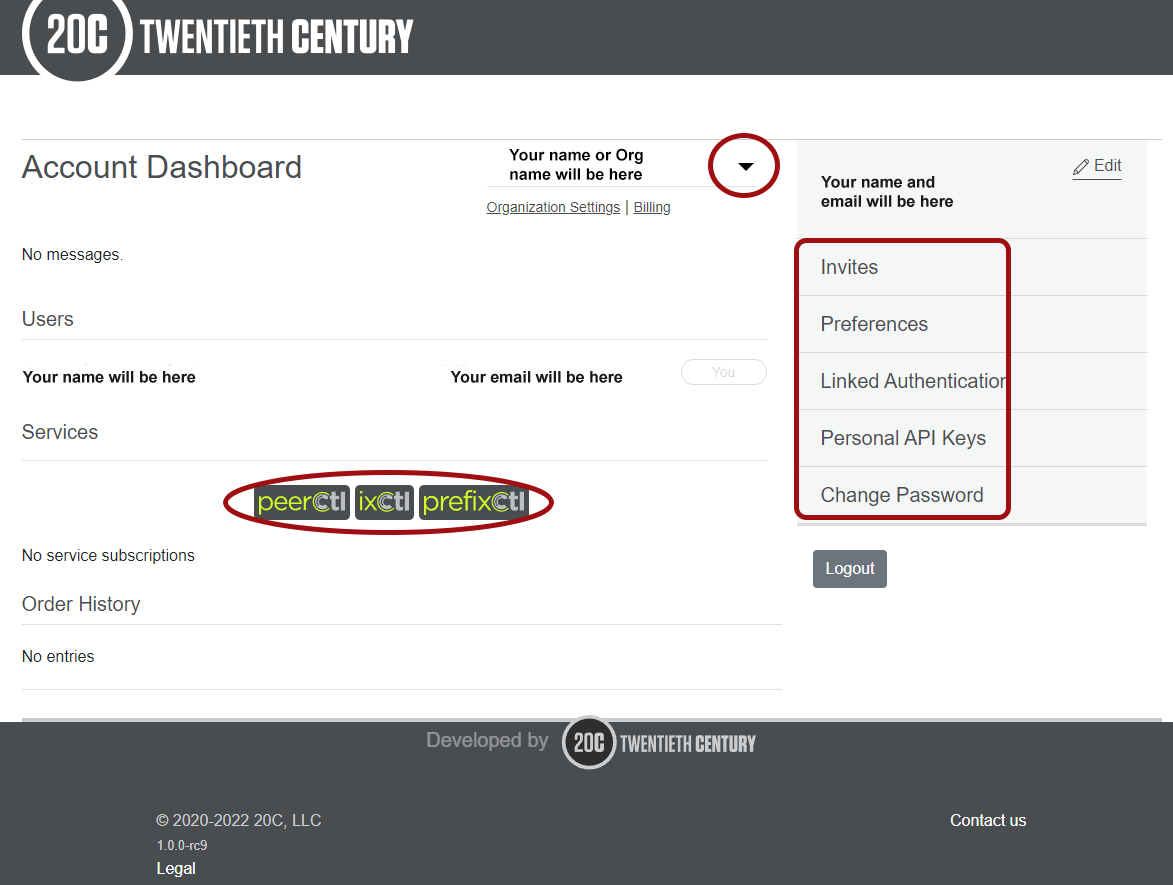
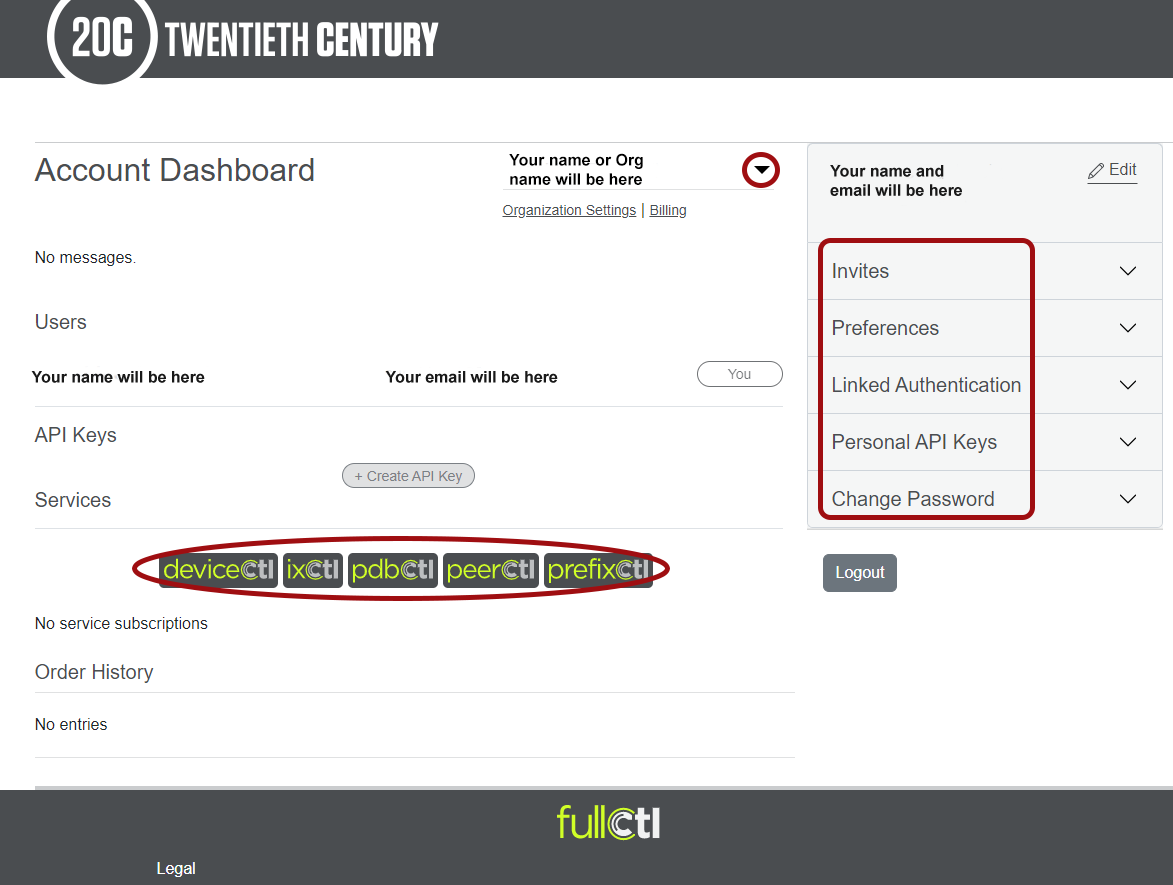
Add docs for DeviceCtl, IXCtl (#23)
* add DeviceCtl docs

* add ixctl docs

* change wording

* documentation updates

* pipenv lock

* replace strong with **

diff --git a/docs/Definitions.md b/docs/Definitions.md
@@ -1,12 +1,12 @@
 # FullCtl Definitions
-<strong>Organization</strong> – A group of Users. The Organization Administrator can set unique permissions for each User. Each Organization has its own services from FullCtl. Billing is tied to an Organization and is based on the services signed up for.
+**Organization** – A group of Users. The Organization Administrator can set unique permissions for each User. Each Organization has its own services from FullCtl. Billing is tied to an Organization and is based on the services signed up for.
 
-<strong>Organization Administrator</strong> - Person who created the Organization on the FullCtl site. The Organization Administrator invites new Users and grants User permissions.
+**Organization Administrator** - Person who created the Organization on the FullCtl site. The Organization Administrator invites new Users and grants User permissions.
 
-<strong>Primary Organization</strong> - The Organization set as default on a User account.
+**Primary Organization** - The Organization set as default on a User account.
 
-<strong>Permissions</strong> – The Read/Write allowances given to a User by an Organization Administrator. All data is tied to an Organization and Users in an Organization can access the data based on the permissions they are given.
+**Permissions** – The Read/Write allowances given to a User by an Organization Administrator. All data is tied to an Organization and Users in an Organization can access the data based on the permissions they are given.
 
-<strong>Services</strong> – Products offered through FullCtl such as PeerCtl, IXCtl, PrefixCtl.
+**Services** – Products offered through FullCtl such as PeerCtl, IXCtl, PrefixCtl.
 
-<strong>User</strong> – An individual with a login. A User may be part of more than one Organization. A User can set their own preferences, username and password. Some Users have Administrator privileges and can add other Users and set permissions. A User can create their own Organization and sign up for services.
+**User** – An individual with a login. A User may be part of more than one Organization. A User can set their own preferences, username and password. Some Users have Administrator privileges and can add other Users and set permissions. A User can create their own Organization and sign up for services.

diff --git a/docs/aaaCtl/LogIn.md b/docs/aaaCtl/LogIn.md
@@ -1,10 +1,12 @@
 # Log In and Update Settings
-1. Go to: account.20c.com.
-2. Enter your username and password and click Login.
+Go to: [account.20c.com](https://account.20c.com).</br>
+Enter username and password and click Login.</br>
    ![](img/login-images/userpass.png)
-3. Once you have logged in you will have access to your Account Dashboard. From the Dashboard, you can use the menu on the right to edit your account information, change preferences, access authentication and API key information and change your password.
-You can access the different 20C products in the Services section.
-You can switch between accounts using the drop-down arrow next to your name.
+Once logged in, there is access to the Account Dashboard. From the Dashboard, use the menu on the right to edit account information, change preferences, access authentication and personal API key information, and change password. The services section provides access to the different 20C products. Use the drop-down arrow next to your name to switch between accounts.
    ![](img/login-images/login2.png)
-4. When you are invited to join an Organization, you will receive an email with a link to accept the invitation. Pending invitations also appear in the right-side menu.
+Organizational API keys can be added to an account. Click on the Create API Key button.
+   ![](img/login-images/orgapikey.png)
+Enter the Name and Email address and click Create.
+   ![](img/login-images/createapikeypopup.png)
+When invited to join an Organization, users receive an email with a link to accept the invitation. Pending invitations also appear in the right-side menu.
    ![](img/login-images/accept.png)

diff --git a/docs/PeerCtl/Request-Peering.md b/docs/PeerCtl/Request-Peering.md
@@ -23,7 +23,7 @@ For each step of the Request Peering process, an email is sent to the network of
    ![](img/defaultemail.png)
 
 
-<strong>Custom Email Templates</strong>
+**Custom Email Templates**
 
 To create custom emails, close the Request Peering pop-up box and click on the Templates tab at the top of the window.
    ![](img/templates.png)
@@ -52,14 +52,26 @@ Example: https://github.com/fullctl/peerctl/blob/prep-release/src/django_peerctl
 
 `mutual_locations` - list of mutually shared exchanges
 
-	`exchange.name` - name of the internet exchange
+    `exchange.name` - name of the internet exchange
+
+Note: List of jinja variables:
+
+- `sessions` list of session objects available on `Session Configured` and `Session Live` emails
+
+    - `session.peer_ip4` peer ipv4 address for the session
+    - `session.peer_ip6` peer ipv6 address for the session
+    - `ip4`: ipv4 address for the session
+    - `ip6`: ipv6 address for the session
+    - `prefix_length4`: max prefixes ipv4
+    - `prefix_length6`: max prefixes ipv6
+
    ![](img/customemail.png)
 
 The newly added Template will appear in the Templates list. It can be edited or deleted from here.
    ![](img/emailtemplist.png)
 
 
-<strong>Peering Process</strong>
+**Peering Process**
 
 Step 1: Request
 

diff --git a/docs/prefixctl/PrefixCtl-Definitions.md b/docs/prefixctl/PrefixCtl-Definitions.md
@@ -1,9 +1,9 @@
 # PrefixCtl Definitions
 
-<strong>IRR Integration</strong> - Internet Routing Registry. When automatic IRR import is enabled the prefixes in this prefix set are managed automatically.
+**IRR Integration** - Internet Routing Registry. When automatic IRR import is enabled the prefixes in this prefix set are managed automatically.
 
-<strong>Prefix</strong> - An aggregation of IP addresses.
+**Prefix** - An aggregation of IP addresses.
 
-<strong>Prefix Set</strong> - A group of unique Prefixes.
+**Prefix Set** - A group of unique Prefixes.
 
-<strong>Reputation Monitor</strong> - Person who will receive a notification status check email daily. Assigning a Reputation Monitor ensures daily reports are received.
+**Reputation Monitor** - Person who will receive a notification status check email daily. Assigning a Reputation Monitor ensures daily reports are received.

diff --git a/docs/DeviceCtl/Definitions.md b/docs/DeviceCtl/Definitions.md
@@ -1,0 +1,10 @@
+# Definitions
+
+**Device** - A single entity composed of physical ports, such as a switch or switch stack, which can be polled in aggregate via a single interface.
+
+**Logical Port** - A grouping of ports which is used as a single connection, for instance a LAG or 802.1ad port group.
+
+**Physical Port** - A physical network connection point on a device.
+
+**Virtual Port** - A subdivision of a Physical or Logical port, such a VLAN. Port that a peering session is built on.
+

diff --git a/docs/DeviceCtl/Add-Facility.md b/docs/DeviceCtl/Add-Facility.md
@@ -1,0 +1,9 @@
+# Add Facility
+
+Click on the Facilities tab at the top of the screen. 
+   ![](img/add-facility/facility.png)
+If the facility is in PeeringDB, enter the facility name into the box to find the facility in PeeringDB. Click Continue next to the facility of choice.
+   ![](img/add-facility/enterfacility.png)
+Review the information that appears. Click PeeringDB is source of truth. Click Save.
+   ![](img/add-facility/savefacility.png)
+

diff --git a/docs/PeerCtl/Settings.md b/docs/PeerCtl/Settings.md
@@ -1,7 +1,7 @@
 # Settings
 
 Choose the Exchange/Port to be used from the drop down box on the left side of the window. The data displayed is populated from PeeringDB.
-<strong>Note: It is important to keep your PeeringDB account up-to-date to produce the most accurate data on PeerCtl.</strong>
+**Note: It is important to keep your PeeringDB account up-to-date to produce the most accurate data on PeerCtl.**
     ![](img/exchangeport.png)
 
 

diff --git a/docs/DeviceCtl/Add-Device.md b/docs/DeviceCtl/Add-Device.md
@@ -1,0 +1,9 @@
+# Add Device
+
+From the Overview tab in DeviceCtl, choose the facility to work with from the drop down menu.
+   ![](img/add-device/choosefacility.png)
+Add a Device by clicking the option on the left side of the screen.
+   ![](img/add-device/adddevice.png)
+In the pop up box, enter the Name, Type, Description and click Save.
+   ![](img/add-device/adddevpopup.png)
+

diff --git a/docs/ixctl/Add-A-Routeserver.md b/docs/ixctl/Add-A-Routeserver.md
@@ -1,0 +1,6 @@
+# Add a Routeserver
+
+To add a routeserver, click on the Settings tab. Click Create, which is below the Routeservers heading in the menu on the left.
+   ![](img/add-routeserver/createrouteserver.png)
+There may be an option to use an existing routeserver as a starting point or start fresh by entering new information. 
+   ![](img/add-routeserver/routeserver.png)

diff --git a/docs/ixctl/Share-the-member-list.md b/docs/ixctl/Share-the-member-list.md
@@ -1,4 +1,5 @@
 # Share the Member List
+
 1. From the drop down menu, choose the IX page you want to share from. Then click on the Settings tab at the top of the page.
    ![](img/share-the-member-list-images/step1.png)
 2. Under IX-F Export Privacy Setting choose “Public (Anyone can view)” or “Private (Requires secret key to view).” Click Save.

diff --git a/docs/ixctl/Create-an-IX.md b/docs/ixctl/Create-an-IX.md
@@ -1,0 +1,7 @@
+# Create an IX
+
+From the Members tab, click on Create.
+   ![](img/create-an-ix/create.png)
+In the pop up box, enter the New Exchange name and click “continue.” An empty IX space will appear.</br>
+   ![](img/create-an-ix/createpopup.png)</br>
+In the empty IX space, a Routeserver or Member can be added. 

diff --git a/docs/ixctl/Import-an-IX.md b/docs/ixctl/Import-an-IX.md
@@ -1,0 +1,6 @@
+# Import an IX
+
+From the Members tab, click on Import.
+   ![](img/import-an-ix/import.png)
+In the pop up box (Import from PeeringDB), enter the name of the IX you want to import and click continue. The IX information will appear.
+   ![](img/import-an-ix/importpopup.png)
